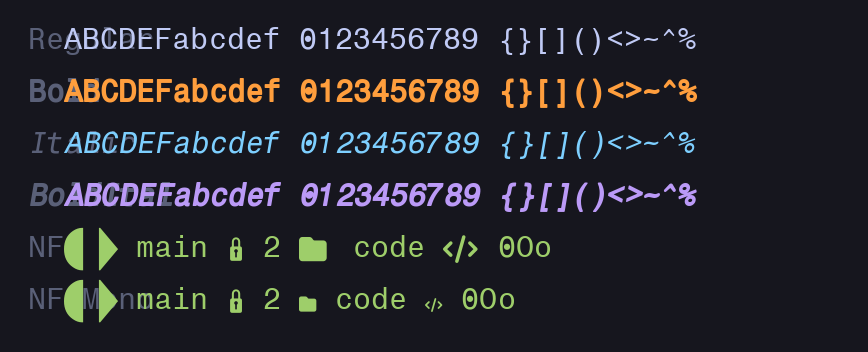
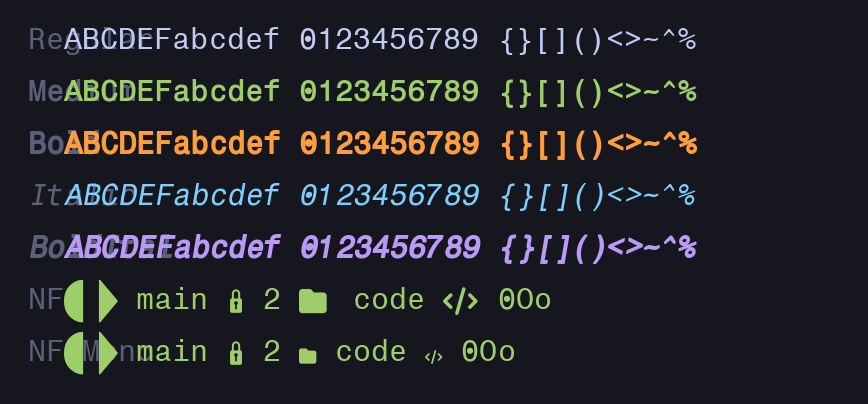
font weight medium

Changed region(s): [[0.0311, 0.1875, 0.8088, 0.9375], [0.0311, 0.0625, 0.8088, 0.1562], [0.4977, 0.8125, 0.591, 0.9062]]

diff --git a/scripts/make_medium.py b/scripts/make_medium.py
@@ -1,0 +1,97 @@
+#!/usr/bin/env python3
+"""Create a synthetic Medium companion for HE_TERMINAL.
+
+Usage: python3 make_medium.py [added_stroke_width]
+Reads tt0596m_.ttf (dotted zero included), writes HE_TERMINAL-Medium.ttf.
+
+Same Minkowski-dilation emboldening as make_bold.py, just lighter: the
+default stroke sits halfway between Regular (~0) and Bold (100, the
+BOLD_WIDTH knob), landing in the 500 weight class.
+"""
+import sys
+
+import pathops
+from fontTools.pens.ttGlyphPen import TTGlyphPen
+from fontTools.ttLib import TTFont
+from fontTools.ttLib.tables.ttProgram import Program
+
+SRC = "tt0596m_.ttf"
+DST = "HE_TERMINAL-Medium.ttf"
+
+width = float(sys.argv[1]) if len(sys.argv) > 1 else 50.0
+
+
+def embolden(glyph_name: str, glyph, glyphSet):
+    src = pathops.Path()
+    glyphSet[glyph_name].draw(src.getPen(glyphSet))
+    if not src.verbs:
+        return None
+    try:
+        src = pathops.simplify(src) or src
+    except pathops.PathOpsError:
+        pass
+    band = pathops.Path()
+    band.addPath(src)
+    band.stroke(width, pathops.LineCap.ROUND_CAP, pathops.LineJoin.ROUND_JOIN, 4.0)
+    band.convertConicsToQuads()
+    out = pathops.Path()
+    pathops.union((src, band), out.getPen())
+    out.convertConicsToQuads()
+    return out
+
+
+def main() -> None:
+    f = TTFont(SRC)
+    glyf = f["glyf"]
+    glyphSet = f.getGlyphSet()
+
+    failed = []
+    for name in list(glyf.keys()):
+        try:
+            med_path = embolden(name, glyf[name], glyphSet)
+        except pathops.PathOpsError:
+            failed.append(name)
+            continue
+        if med_path is None:
+            continue
+        pen = TTGlyphPen(None)
+        med_path.draw(pen)
+        ng = pen.glyph()
+        ng.program = Program()
+        ng.program.fromBytecode(b"")
+        glyf[name] = ng
+
+    mp = f["maxp"]
+    pts = ctrs = 0
+    for gname in glyf.keys():
+        gg = glyf[gname]
+        if not gg.isComposite():
+            coords, ends, _flags = gg.getCoordinates(glyf)
+            pts = max(pts, len(coords))
+            ctrs = max(ctrs, len(ends))
+    mp.maxPoints, mp.maxContours = pts, ctrs
+    mp.maxCompositePoints, mp.maxCompositeContours = pts, ctrs
+
+    name_tbl = f["name"]
+    for rec in name_tbl.names:
+        if rec.nameID == 2:
+            rec.string = "Medium"
+        elif rec.nameID == 4:
+            rec.string = "HE_TERMINAL Medium"
+        elif rec.nameID == 6:
+            rec.string = "HE_TERMINAL-Medium"
+
+    os2 = f["OS/2"]
+    os2.usWeightClass = 500
+    os2.fsSelection = os2.fsSelection & ~(0x40 | 0x20)  # neither REGULAR nor BOLD
+    f["head"].macStyle &= ~0x0001
+
+    f.save(DST)
+    print(f"wrote {DST} (+{width:g} units stroke, ~{width / 20.48:.1f}% em)")
+    if failed:
+        print(f"WARNING: {len(failed)} glyphs failed emboldening (kept regular): "
+              f"{failed[:20]}{'...' if len(failed) > 20 else ''}")
+
+
+if __name__ == "__main__":
+    main()

diff --git a/scripts/make_mono_variants.py b/scripts/make_mono_variants.py
@@ -25,7 +25,7 @@ BLEED = 1.02          # tolerate ~25 units of edge bleed before acting
 PAD = 0.96            # mono icons are shrunk to 96% of the cell
 ICON_CP_MAX = 0xE0FF  # codepoints at/below this are cell-designed glyphs
 
-STYLES = ["Regular", "Bold", "Italic", "BoldItalic"]
+STYLES = ["Regular", "Medium", "Bold", "Italic", "BoldItalic"]
 
 
 def icon_glyphs(f):
@@ -81,6 +81,7 @@ def make_mono(src, dst):
     ps_suffix = "Mono-" + style
     new_names = {
         1: "HE_TERMINAL Nerd Font Mono",
+        2: style,
         4: f"HE_TERMINAL Nerd Font Mono {style}",
         6: "HE_TERMINALNFMono-" + style,
         16: "HE_TERMINAL Nerd Font Mono",

diff --git a/scripts/make_previews.py b/scripts/make_previews.py
@@ -70,6 +70,7 @@ def render(rows: list[tuple[str, str, str, str]], out_path: str,
 def main() -> None:
     family_rows = [
         (PLAIN, "Regular", PLAIN_TEXT, FG),
+        ("fonts/HE_TERMINAL-Medium.ttf", "Medium", PLAIN_TEXT, GREEN),
         ("fonts/HE_TERMINAL-Bold.ttf", "Bold", PLAIN_TEXT, ORANGE),
         ("fonts/HE_TERMINAL-Italic.ttf", "Italic", PLAIN_TEXT, CYAN),
         ("fonts/HE_TERMINAL-BoldItalic.ttf", "BoldItal", PLAIN_TEXT, PURPLE),

diff --git a/scripts/unify_icons.py b/scripts/unify_icons.py
@@ -17,7 +17,7 @@ from fontTools.ttLib.tables.ttProgram import Program
 from make_mono_variants import ICON_CP_MAX, icon_glyphs
 
 MASTER = "HE_TERMINALNerdFont-Regular.ttf"
-OTHERS = [f"HE_TERMINALNerdFont-{s}.ttf" for s in ("Bold", "Italic", "BoldItalic")]
+OTHERS = [f"HE_TERMINALNerdFont-{s}.ttf" for s in ("Medium", "Bold", "Italic", "BoldItalic")]
 
 
 def main() -> None:

diff --git a/scripts/make_hints.py b/scripts/make_hints.py
@@ -21,7 +21,7 @@ import shutil
 import subprocess
 import tempfile
 
-STYLES = ("Bold", "Italic", "BoldItalic")
+STYLES = ("Medium", "Bold", "Italic", "BoldItalic")
 FONTS = [f"HE_TERMINAL-{s}.ttf" for s in STYLES] \
       + [f"HE_TERMINALNerdFont-{s}.ttf" for s in STYLES] \
       + [f"HE_TERMINALNFMono-{s}.ttf" for s in STYLES]

diff --git a/scripts/fix_nf_names.py b/scripts/fix_nf_names.py
@@ -15,6 +15,7 @@ def main() -> None:
     f = TTFont(f"HETERMINALNerdFont-{style}.ttf")
     new = {
         1: "HE_TERMINAL Nerd Font",
+        2: style,
         4: f"HE_TERMINAL Nerd Font {style}",
         6: f"HE_TERMINALNF-{style}",
     }

diff --git a/README.md b/README.md
@@ -1,9 +1,9 @@
 # HE_TERMINAL
 
 Personal monospaced terminal font: dotted zero, synthesized
-**Bold / Italic / Bold Italic**, and **Nerd Fonts v3** icon patches in
-standard and Mono flavors. Built from one source TTF by a fully
-scripted pipeline.
+**Medium / Bold / Italic / Bold Italic**, and **Nerd Fonts v3** icon
+patches in standard and Mono flavors. Built from one source TTF by a
+fully scripted pipeline.
 
 ![family preview](previews/family_preview.png)
 
@@ -11,7 +11,7 @@ scripted pipeline.
 
 ```sh
 make check-deps   # verify toolchain
-make install      # build 12 TTFs -> ~/.fonts/HE_TERMINAL + fc-cache
+make install      # build 15 TTFs -> ~/.fonts/HE_TERMINAL + fc-cache
 ```
 
 Then point your terminal at one of:
@@ -37,7 +37,7 @@ make clean      # remove build/, fonts/, previews/
 Two knobs (force rebuild with `-B` after changing):
 
 ```sh
-make -B install SLANT=12 BOLD_WIDTH=120   # italic angle, bold stroke
+make -B install SLANT=12 BOLD_WIDTH=120 MEDIUM_WIDTH=60   # italic angle, stroke widths
 ```
 
 Dependencies on Arch: `make fontforge python-fonttools
@@ -52,8 +52,8 @@ make PY=$PWD/.venv/bin/python
 
 ## How it works
 
-`src/tt0596m_.ttf.orig` → dotted zero → bold/oblique synthesis →
-Nerd Fonts patcher (`--complete --careful`) → name/icon fixes →
+`src/tt0596m_.ttf.orig` → dotted zero → medium/bold/oblique
+synthesis → Nerd Fonts patcher (`--complete --careful`) → name/icon fixes →
 wide + Mono variants → ttfautohint on every synthesized face.
 
 Design notes:
